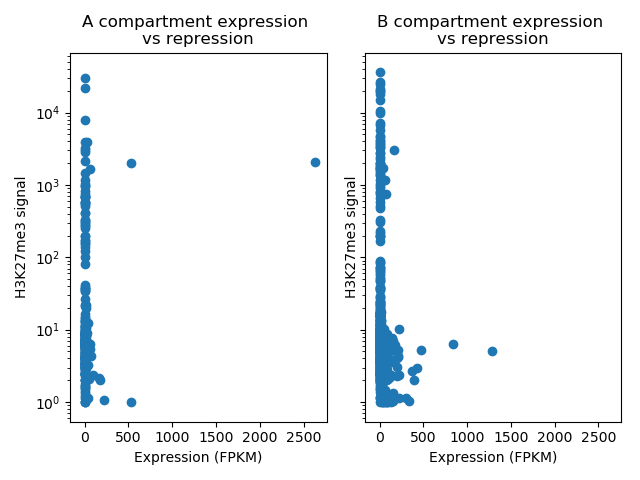
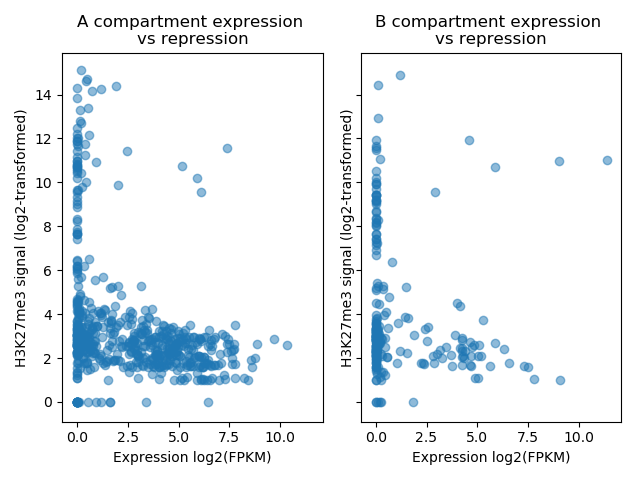
fixes some errors in Quant Lab Assignment 9 commands and scripts

diff --git a/Quant_lab/assignment_09/expression_repression.py b/Quant_lab/assignment_09/expression_repression.py
@@ -19,7 +19,7 @@ B_H3K27me3 = []
 #2) enter values into bw.stats and store output (H3K27me3 level). If value is None, replace with 0
 #make data list: [[gene name, expression, H3K27me3 level]]
 #do the same for neg_genes_fpkm.bed
-fs = open('/Users/cmdb/qbb2020-answers/Quant_lab/assignment_09/pos_genes_fpkm.bed', 'r')
+fs = open('/Users/cmdb/qbb2020-answers/Quant_lab/assignment_09/neg_genes_fpkm.bed', 'r') #violin plots showed that neg scores are B compartment
 for line in fs:
 	line = line.strip('\n')
 	fields = line.split('\t')
@@ -29,13 +29,15 @@ for line in fs:
 	gene_name = fields[3]
 	fpkm = float(fields[4])
 	H3K27me3 = bw.stats(chr, start, end, type = 'sum')
-	if H3K27me3 == None:
-		H3K27me3 = 0
+	if H3K27me3 == None or H3K27me3 == [None]:
+		B_H3K27me3 += [0]
+	else:
+		B_H3K27me3 += H3K27me3
 	B_expression += [fpkm]
-	B_H3K27me3 += [H3K27me3]
+
 fs.close()
 
-fs = open('/Users/cmdb/qbb2020-answers/Quant_lab/assignment_09/neg_genes_fpkm.bed', 'r')
+fs = open('/Users/cmdb/qbb2020-answers/Quant_lab/assignment_09/pos_genes_fpkm.bed', 'r') #violin plots showed that pos scores are A compartment
 for line in fs:
 	line = line.strip('\n')
 	fields = line.split('\t')
@@ -45,29 +47,58 @@ for line in fs:
 	gene_name = fields[3]
 	fpkm = float(fields[4])
 	H3K27me3 = bw.stats(chr, start, end, type = 'sum')
-	if H3K27me3 == None:
-		H3K27me3 = 0
+	if H3K27me3 == None or H3K27me3 == [None]:
+		A_H3K27me3 += [0]
+	else:
+		A_H3K27me3 += H3K27me3
 	A_expression += [fpkm]
-	A_H3K27me3 += [H3K27me3]
+
 fs.close()
+
+# count = 0
+# for el in A_expression:
+# 	if count > 10:
+# 		break
+# 	print(el)
+# 	count += 1
+
+# count = 0
+# for el in A_H3K27me3:
+# 	if count > 10:
+# 		break
+# 	print(el)
+# 	count += 1
+
+#Add 1 to every entry and log2 transform the data
+A_expression = [x+1 for x in A_expression]
+A_expression = [np.log2(x) for x in A_expression] #take a log of the values for plotting
+
+A_H3K27me3 = [x+1 for x in A_H3K27me3]
+A_H3K27me3 = [np.log2(x) for x in A_H3K27me3]
+
+B_expression = [x+1 for x in B_expression]
+B_expression = [np.log2(x) for x in B_expression]
+
+B_H3K27me3 = [x+1 for x in B_H3K27me3]
+B_H3K27me3 = [np.log2(x) for x in B_H3K27me3]
 
 
 
 #Make 2 scatter plots
 fig, axes = plt.subplots(ncols = 2, sharey = True, sharex = True)
 # fig.suptitle('Relationship between expresssion and H3K27me3')
-axes[0].set_yscale('log')
+#axes[0].set_yscale('log')
 # axes[0].set_xscale('log')
-axes[0].scatter(A_expression, A_H3K27me3)
-axes[0].set_xlabel('Expression (FPKM)')
-axes[0].set_ylabel('H3K27me3 signal')
+axes[0].scatter(A_expression, A_H3K27me3, alpha = 0.5)
+axes[0].set_xlabel('Expression log2(FPKM)')
+axes[0].set_ylabel('H3K27me3 signal (log2-transformed)')
 axes[0].set_title('A compartment expression \nvs repression')
 
-axes[1].set_yscale('log')
+#axes[1].set_yscale('log')
 # axes[1].set_xscale('log')
-axes[1].scatter(B_expression, B_H3K27me3)
-axes[1].set_xlabel('Expression (FPKM)')
-axes[1].set_ylabel('H3K27me3 signal')
+axes[1].scatter(B_expression, B_H3K27me3, alpha = 0.5)
+axes[1].set_xlabel('Expression log2(FPKM)')
+axes[1].set_ylabel('H3K27me3 signal (log2-transformed)')
 axes[1].set_title('B compartment expression \nvs repression')
 
 fig.tight_layout()

diff --git a/Quant_lab/assignment_09/compartment_expression_plotter.py b/Quant_lab/assignment_09/compartment_expression_plotter.py
@@ -30,13 +30,20 @@ for line in fs:
 	neg_compartment_fpkms += [fpkm]
 fs.close()
 
+#Add 1 to every entry and log2 transform the data
+pos_compartment_fpkms = [x + 1 for x in pos_compartment_fpkms]
+pos_compartment_fpkms = [np.log2(x) for x in pos_compartment_fpkms]
+
+neg_compartment_fpkms = [x + 1 for x in neg_compartment_fpkms]
+neg_compartment_fpkms = [np.log2(x) for x in neg_compartment_fpkms]
+
 
 #now make violin plots
 fig, ax = plt.subplots()
 ax.set_title("Expression by compartment")
-ax.set_ylabel("FPKM")
-ax.set_yscale('log')
-labels = ['Pos compartment scores\nB compartment (lower expression)', 'Neg compartment scores\nA compartment (higher expression)']
+ax.set_ylabel("log2(FPKM)")
+#ax.set_yscale('log')
+labels = ['Pos compartment scores\nA compartment (higher expression)', 'Neg compartment scores\nB compartment (lower expression)']
 ax.set_xticks(np.arange(1, len(labels) + 1))
 ax.set_xticklabels(labels)
 ax.violinplot([pos_compartment_fpkms, neg_compartment_fpkms])
